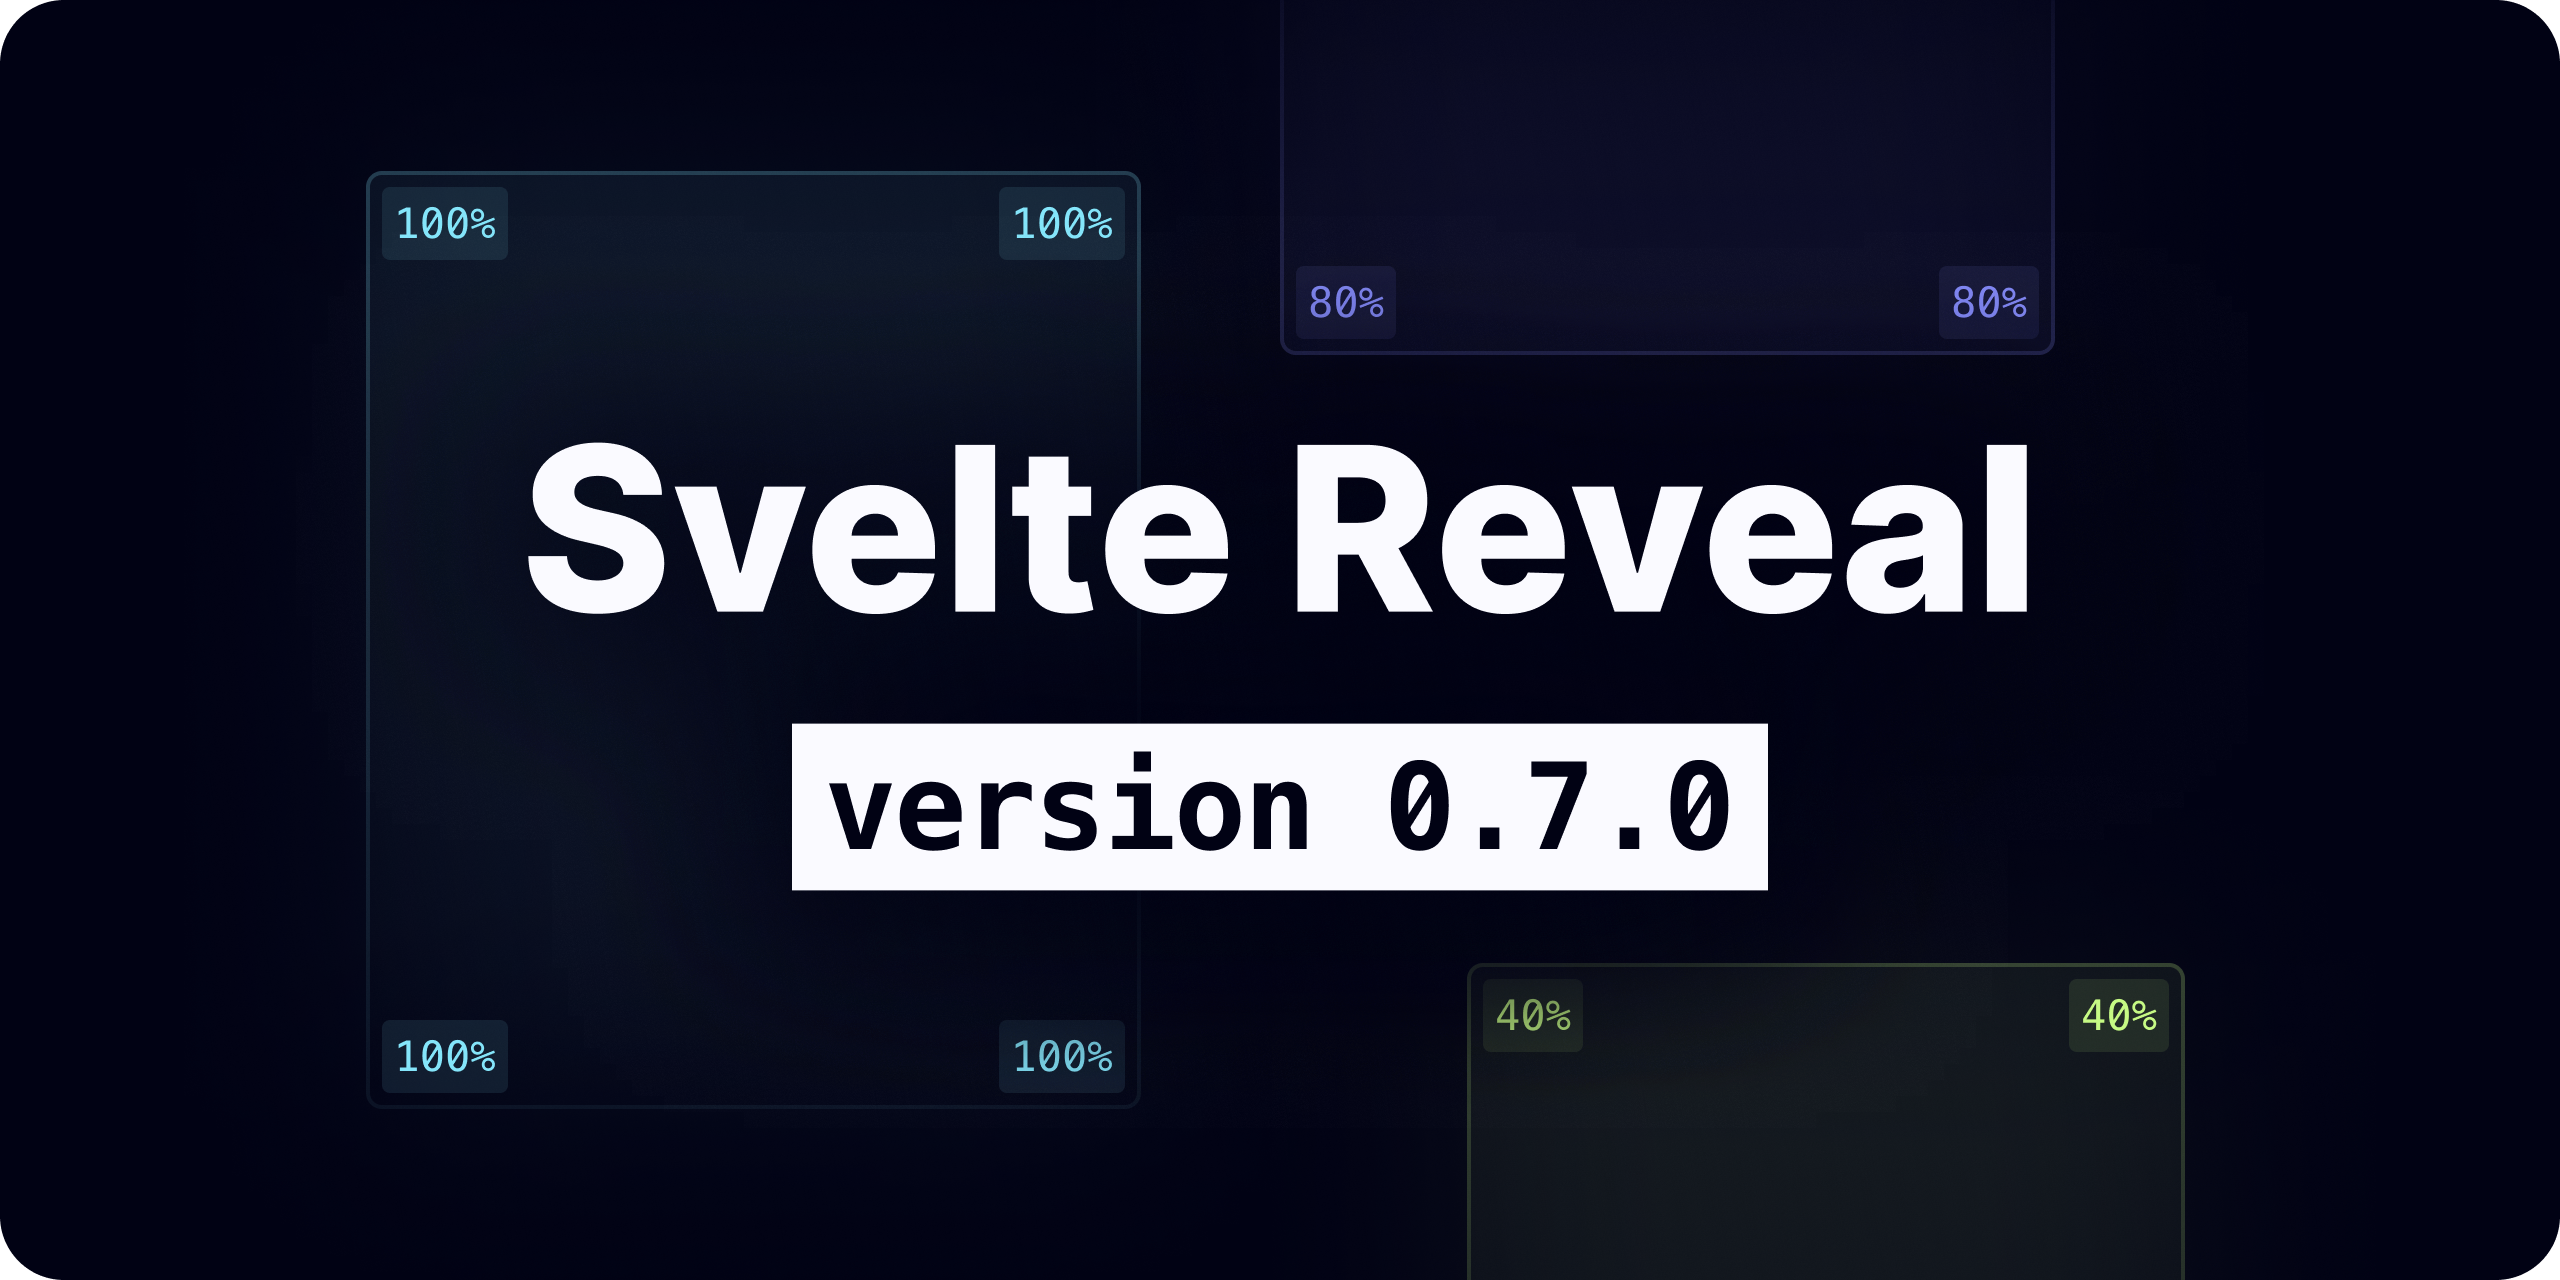
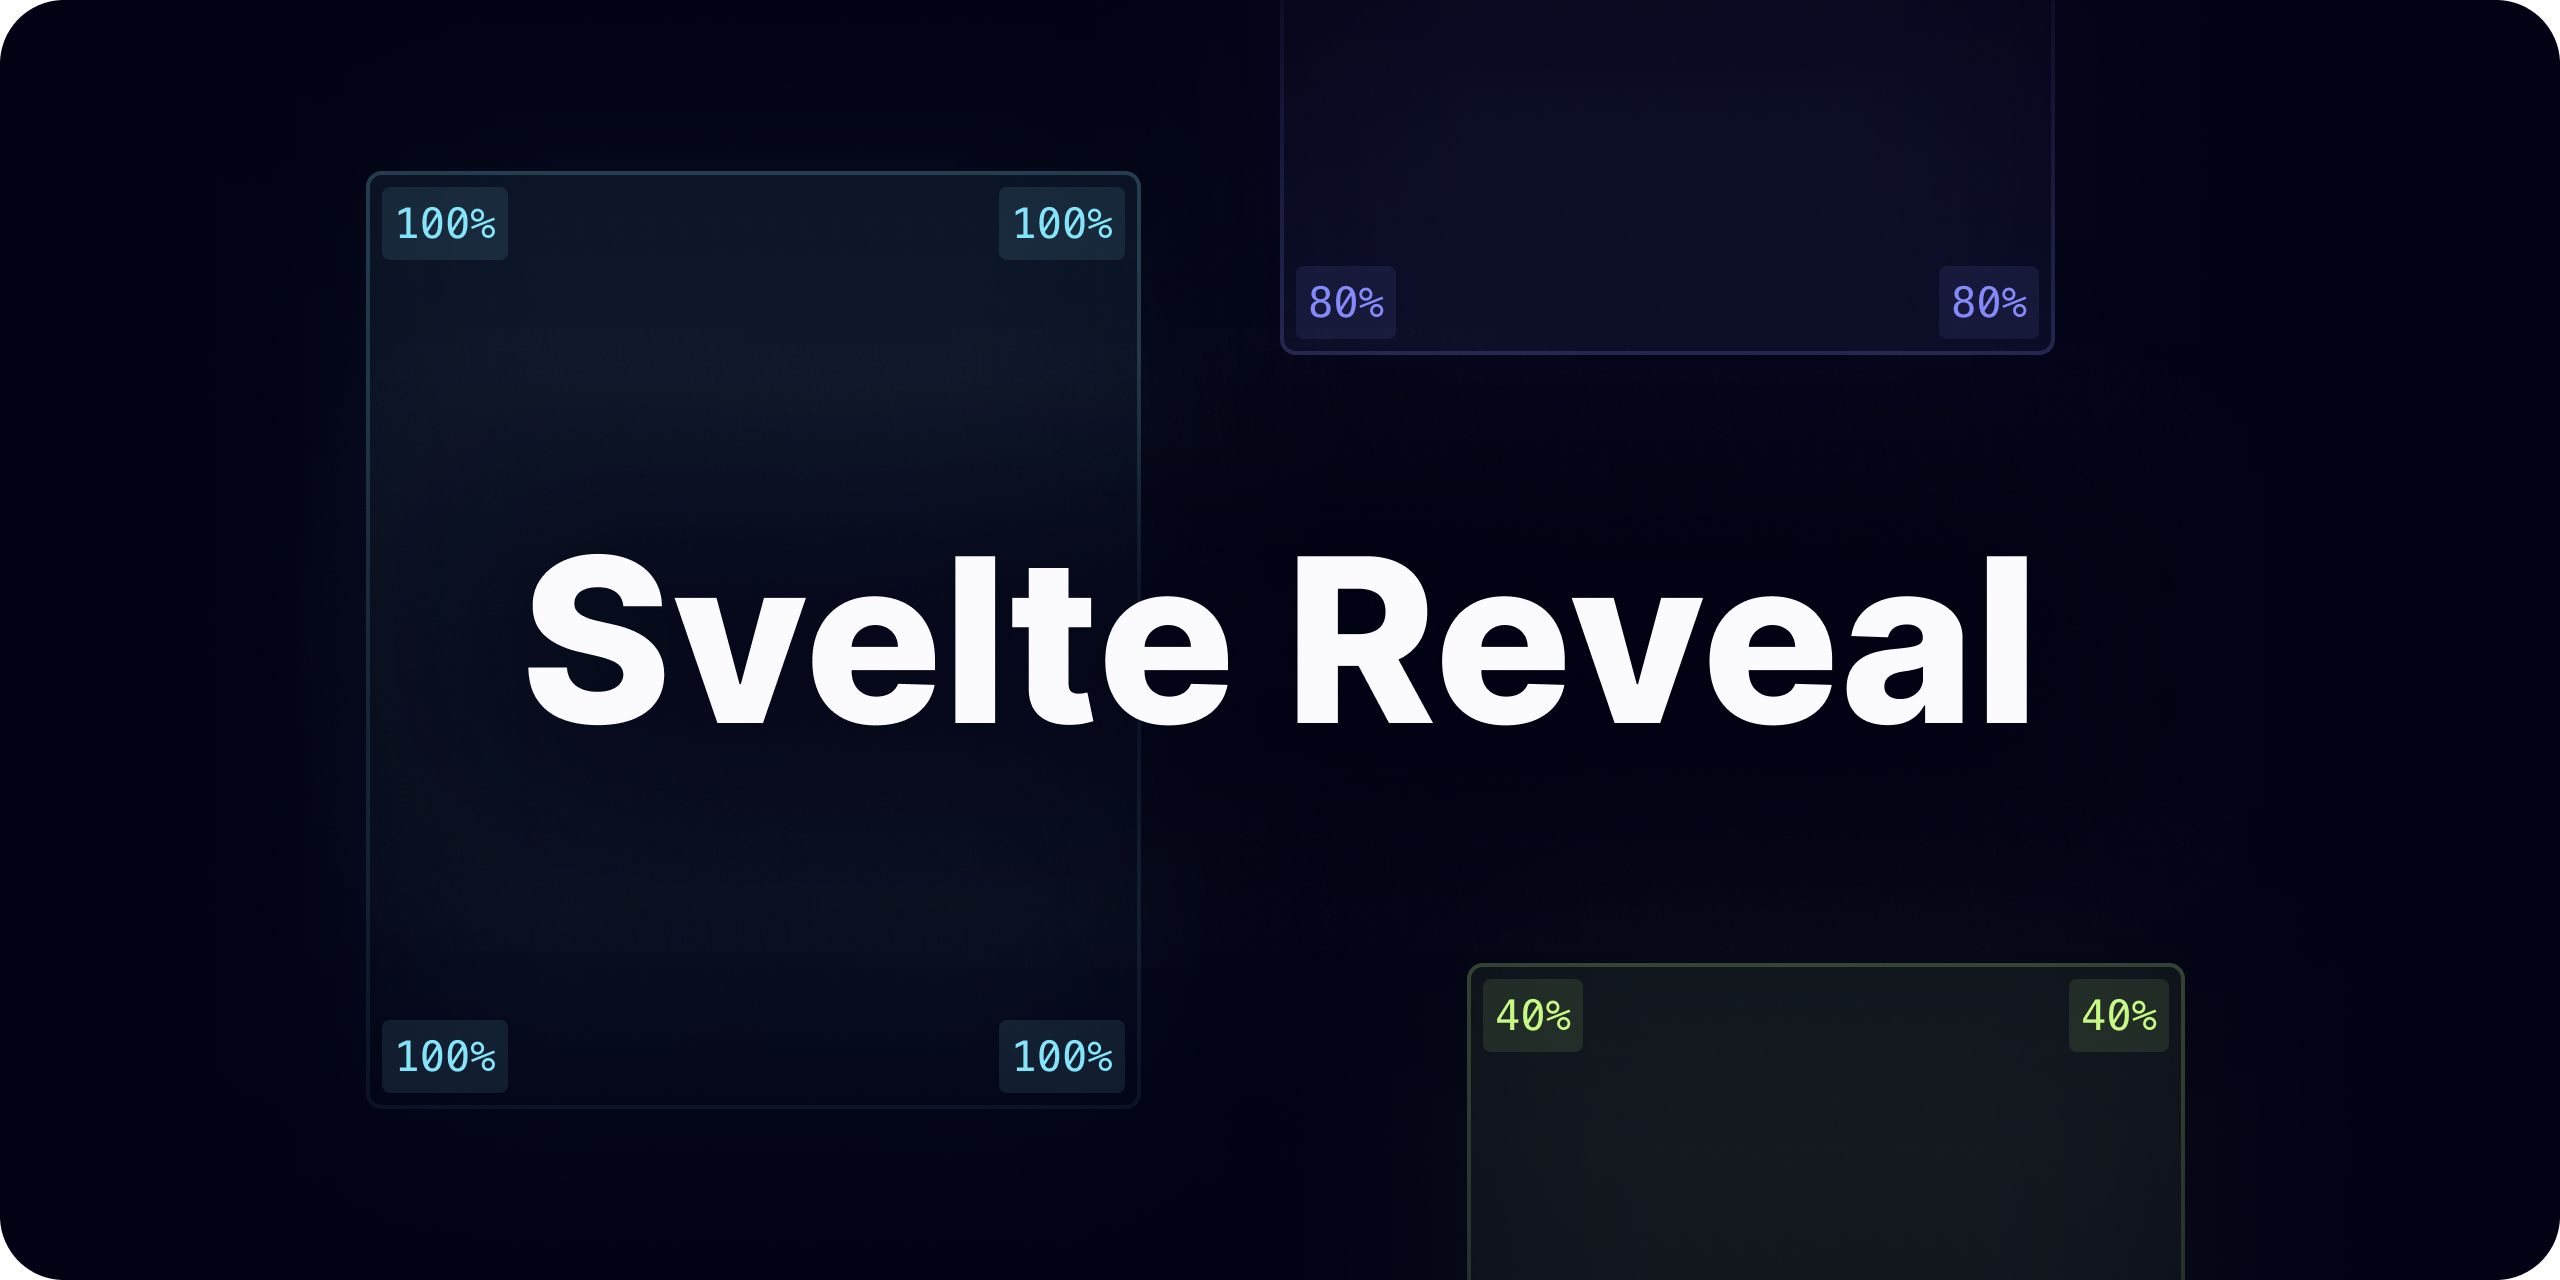
Removed some readme badges and updated cover image

Changed region(s): [[0.1875, 0.3438, 0.8125, 0.7188], [0.5938, 0.75, 0.625, 0.8125], [0.4062, 0.8125, 0.4375, 0.8438]]

diff --git a/packages/svelte-reveal/README.md b/packages/svelte-reveal/README.md
@@ -2,7 +2,7 @@
 
 # Svelte Reveal
 
-[![CI/CD](https://github.com/DaveKeehl/svelte-reveal/actions/workflows/main.yml/badge.svg)](https://github.com/DaveKeehl/svelte-reveal/actions/workflows/main.yml) ![npm](https://img.shields.io/npm/v/svelte-reveal) ![npm](https://img.shields.io/npm/dw/svelte-reveal) ![GitHub](https://img.shields.io/github/license/davekeehl/svelte-reveal) [![codecov](https://codecov.io/gh/DaveKeehl/svelte-reveal/branch/develop/graph/badge.svg?token=AL1KI5XRDF)](https://codecov.io/gh/DaveKeehl/svelte-reveal) [![Gitpod Ready-to-Code](https://img.shields.io/badge/Gitpod-Ready--to--Code-blue?logo=gitpod)](https://gitpod.io/#https://github.com/DaveKeehl/svelte-reveal/tree/develop)
+![npm](https://img.shields.io/npm/v/svelte-reveal) ![npm](https://img.shields.io/npm/dw/svelte-reveal) ![GitHub](https://img.shields.io/github/license/davekeehl/svelte-reveal)
 
 > ⚠&nbsp;&nbsp;Svelte Reveal is currently in beta. Do you want to [contribute](https://github.com/DaveKeehl/svelte-reveal/issues)? Do you want to [report a bug](https://github.com/DaveKeehl/svelte-reveal/issues/new?assignees=&labels=bug&template=bug_report.yml&title=%5BBug%5D%3A+)?
 
@@ -90,16 +90,6 @@ Svelte Reveal is a library created with the purpose of helping [Svelte](https://
 
    Using [SvelteKit](https://kit.svelte.dev/)? Please read [section "SvelteKit"](#sveltekit)
 
-### Docker
-
-A Docker image is also available on [DockerHub](https://hub.docker.com/):
-
-```bash
-docker pull davekeehl/svelte-reveal:latest
-```
-
-You can also use the provided Dockerfile in the repository as a development environment. You can read more [here](https://code.visualstudio.com/docs/remote/containers).
-
 ## Demo
 
 In this [Svelte REPL](https://svelte.dev/repl/1cf37b0947ac46b8ae9cc791abda7159?version=3.44.1) I created you can see Svelte Reveal in action.
@@ -128,7 +118,7 @@ The way Svelte Reveal transitions the elements does not work well with [SSR](htt
 </script>
 
 {#if show}
-  <your-element-or-component />
+<your-element-or-component />
 {/if}
 ```
 
